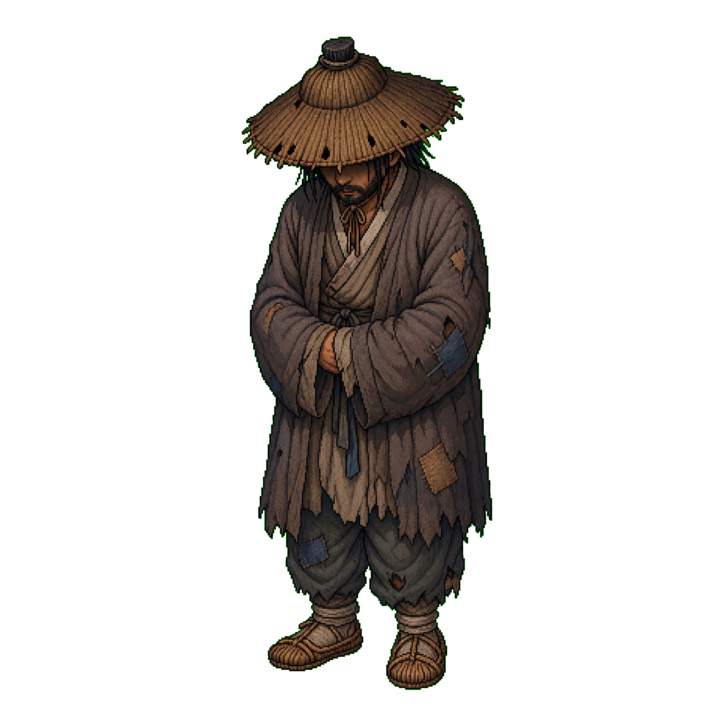
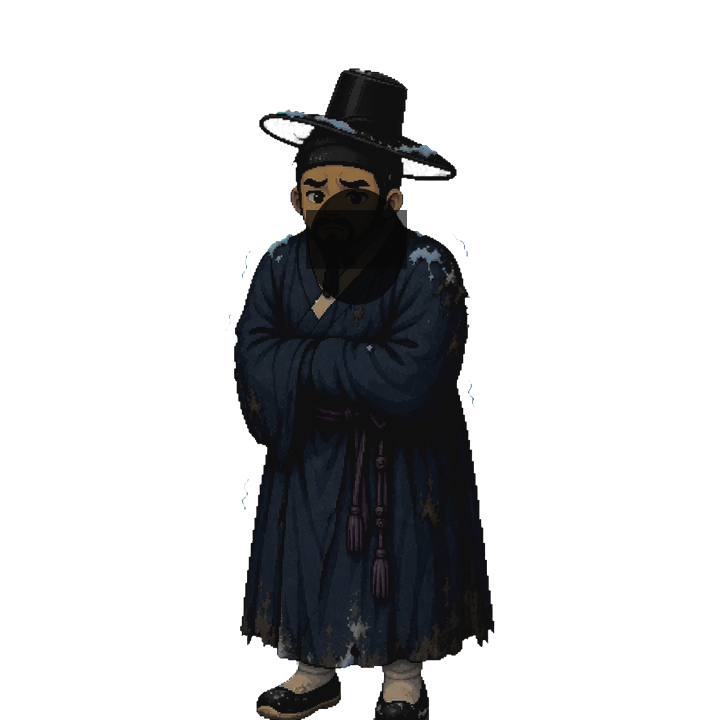
Align Onggojib support sprites with existing style

Changed region(s): [[0.3056, 0.0306, 0.7028, 1.0]]

diff --git a/src/data/stories.js b/src/data/stories.js
@@ -1374,7 +1374,7 @@ const onggojibCharacterAssets = {
   아이: {
     side: 'right',
     facing: 'left',
-    scale: 0.76,
+    scale: 1,
     alt: '옹고집의 아이',
     variants: {
       default: onggojibChildSprite,
@@ -1383,7 +1383,7 @@ const onggojibCharacterAssets = {
   막내: {
     side: 'right',
     facing: 'left',
-    scale: 0.76,
+    scale: 1,
     alt: '옹고집의 막내',
     variants: {
       default: onggojibChildSprite,